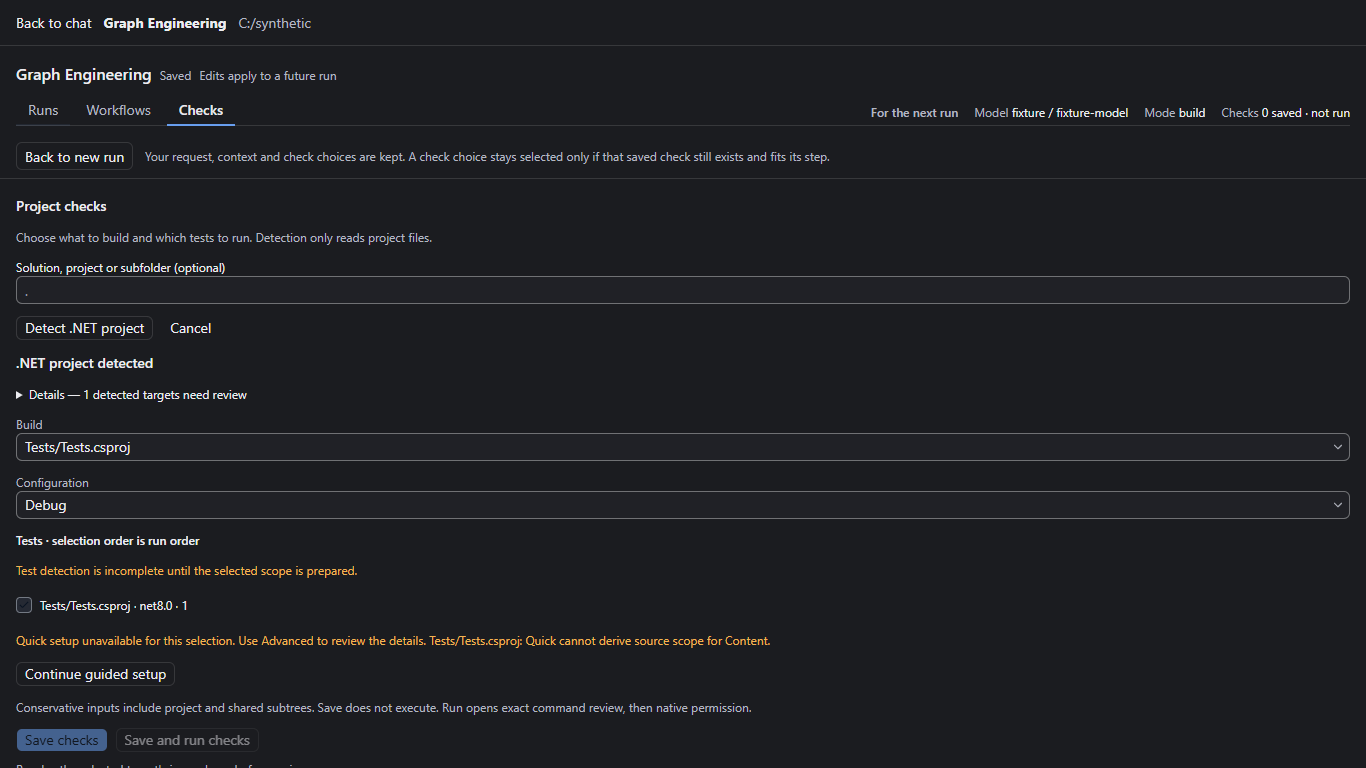
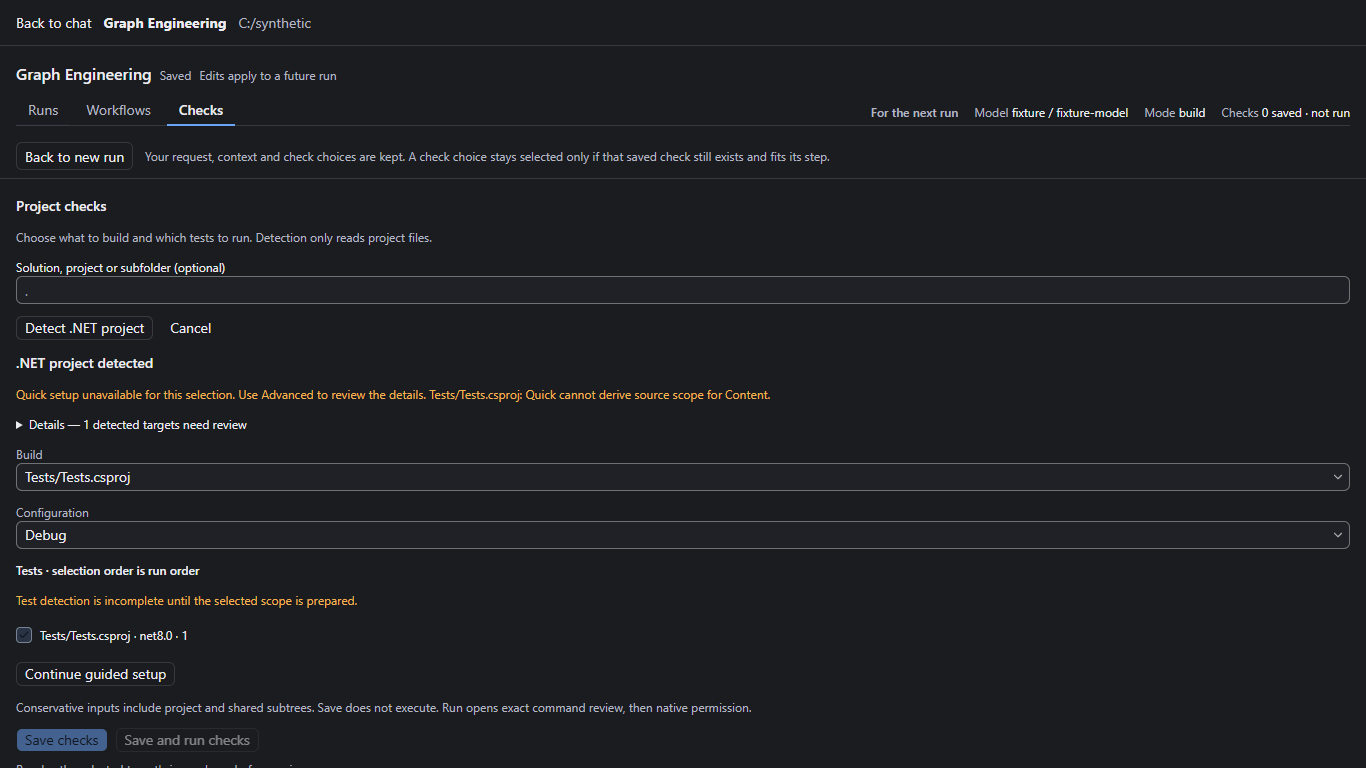
test(graph): record U4 native pass fail recovery and freshness

diff --git a/packages/services/src/graph-engineering/domain/project-items.ts b/packages/services/src/graph-engineering/domain/project-items.ts
@@ -1,7 +1,39 @@
 import { validateGraphRelativePath } from "./artifact-schemas.js";
-import type { ProjectXmlElement } from "./project-xml.js";
+import { parseProjectXml, type ProjectXmlElement } from "./project-xml.js";
 
 export const fileItemNames = new Set(["Compile", "Content", "None", "EmbeddedResource"]);
+/** 资源类型可隐藏文件读取；先解析实体，再只接受无类型的字符串资源。 */
+export function assertLiteralResource(text: string): void {
+  const root = parseProjectXml(new TextEncoder().encode(text));
+  if (root.name !== "root" || root.text.trim() || Object.keys(root.attributes).length)
+    throw Error("Only plain string resx resources are supported.");
+  for (const entry of root.children) {
+    if (
+      !["data", "resheader"].includes(entry.name) ||
+      entry.text.trim() ||
+      !entry.attributes.name ||
+      Object.keys(entry.attributes).some((key) => !["name", "xml:space"].includes(key)) ||
+      entry.children.some(
+        (child) =>
+          !["value", "comment"].includes(child.name) ||
+          child.children.length ||
+          Object.keys(child.attributes).length,
+      )
+    )
+      throw Error(
+        "Typed, indirect, serialized or schema-bearing resx resources require explicit review.",
+      );
+    if (entry.name === "resheader") {
+      const value = entry.children.find((child) => child.name === "value")?.text;
+      const allowed: Record<string, string> = {
+        resmimetype: "text/microsoft-resx",
+        version: "2.0",
+      };
+      if (value !== allowed[entry.attributes.name])
+        throw Error("Custom resx reader/writer metadata requires explicit review.");
+    }
+  }
+}
 const excluded = new Set(["bin", "obj", ".git", ".zcode"]);
 export interface ProjectFileOperation {
   kind: string;
@@ -49,6 +81,7 @@ export function projectPattern(pattern: string): RegExp {
 }
 export function projectPatternMayEnter(pattern: string, directory: string): boolean {
   const segments = pattern.split("/");
+  if (segments.at(-1) === "**" && projectPattern(pattern).test(directory)) return true;
   return segments.some(
     (_, index) =>
       index < segments.length - 1 &&

diff --git a/packages/ui/src/graph-engineering/GraphQuickDotnet.tsx b/packages/ui/src/graph-engineering/GraphQuickDotnet.tsx
@@ -291,6 +291,18 @@ export function GraphQuickDotnet({
                   {t("quickPrepared", { count: prepared.prepared.scope.sourceCount })}
                 </p>
               ) : null}
+              {issue ? (
+                <p role="status" className="text-ui-sm text-warning">
+                  {!build ||
+                  (!prepared?.issues.length && !scopes.length && choices.scopes.length) ? (
+                    t("quickChooseTargets")
+                  ) : (
+                    <>
+                      {t("quickUnavailable")} {issue.slice(0, 400)}
+                    </>
+                  )}
+                </p>
+              ) : null}
               <GraphQuickDiagnostics
                 diagnostics={diagnostics}
                 affected={
@@ -343,18 +355,6 @@ export function GraphQuickDotnet({
                 disabled={disabled}
                 busy={busy}
               />
-              {issue ? (
-                <p role="status" className="text-ui-sm text-warning">
-                  {!build ||
-                  (!prepared?.issues.length && !scopes.length && choices.scopes.length) ? (
-                    t("quickChooseTargets")
-                  ) : (
-                    <>
-                      {t("quickUnavailable")} {issue}
-                    </>
-                  )}
-                </p>
-              ) : null}
               {issue && build && !busy ? (
                 <GraphQuickContinuation
                   workspaceKey={workspaceKey}

diff --git a/packages/services/src/graph-engineering/adapters/project-scope.ts b/packages/services/src/graph-engineering/adapters/project-scope.ts
@@ -6,7 +6,7 @@ import { PROJECT_SCOPE_BUDGET } from "../domain/project-budgets.js";
 import { validateGraphRelativePath } from "../domain/artifact-schemas.js";
 import { assertWorkspaceFilePath, readDeclaredFile } from "./artifact-files.js";
 import { ProjectScanJob, pathKey, projectDigest } from "./project-scan-job.js";
-import { evaluateFileItems } from "../domain/project-items.js";
+import { evaluateFileItems, assertLiteralResource } from "../domain/project-items.js";
 
 const ancestorNames = [
   "Directory.Build.props",
@@ -214,12 +214,13 @@ export async function prepareProjectScope(job: ProjectScanJob, project: string) 
       )) {
         if (item.kind === "EmbeddedResource" && /\.resx$/i.test(item.path)) {
           await job.metadata(item.path);
-          if (
-            /ResXFileRef|BinaryFormatter|SoapFormatter/i.test(job.contents.get(pathKey(item.path))!)
-          )
+          try {
+            assertLiteralResource(job.contents.get(pathKey(item.path))!);
+          } catch (error) {
             throw Error(
-              `${item.path}: indirect or serialized resource inputs require explicit review.`,
+              `${item.path}: ${error instanceof Error ? error.message : "Unsupported resource"}`,
             );
+          }
         }
       }
   // 元数据读取与源枚举间发生变化时拒绝发布，不把不同时刻的闭包拼成授权。

diff --git a/packages/services/src/graph-engineering/adapters/project-declarative.test.ts b/packages/services/src/graph-engineering/adapters/project-declarative.test.ts
@@ -144,6 +144,7 @@ test("duplicate lists, excluded glob intersections, resource indirection and exp
   for (const declaration of [
     '<Content Include="data/value.txt;data/value.txt"/>',
     '<Content Include="dat*/**/*.txt"/>',
+    '<Content Include="data/**"/>',
     '<Content Include="data/**/*.txt" Exclude="data/obj/input.txt;data/obj/nested/input.cs"/>',
     '<Content Include="data/value.txt" UnknownMetadata="value"/>',
   ]) {
@@ -160,6 +161,16 @@ test("duplicate lists, excluded glob intersections, resource indirection and exp
     '<root><data type="System.Resources.ResXFileRef"><value>../../outside.txt</value></data></root>',
   );
   assert.match((await prepare()).issues.join(" "), /resource|ResX/i);
+  await write(
+    "Tests/resource.resx",
+    '<root><data name="outside" type="System.Resources.ResXFile&#82;ef"><value>../../outside.txt</value></data></root>',
+  );
+  assert.equal((await prepare()).prepared, undefined);
+  await write(
+    "Tests/resource.resx",
+    '<root><data name="literal"><value>safe string</value></data></root>',
+  );
+  assert.equal((await prepare()).status, "complete");
   const d = declarativeProject(
     "Tests/Tests.csproj",
     new Map([

diff --git a/docs/graph-engineering/z8/Z8_5_U4_REPORT.md b/docs/graph-engineering/z8/Z8_5_U4_REPORT.md
@@ -29,7 +29,8 @@ are bounded to 64 documents / depth 16.
 Unsupported shapes remain actionable, non-runnable drafts: conditional imports;
 arbitrary conditions/property functions/unknown properties; custom SDKs, targets,
 tasks, output paths and generators; escaped item syntax and transforms; external
-paths/reparse aliases; indirect or serialized resx inputs; repeated/cyclic imports;
+paths/reparse aliases; typed, indirect, serialized, schema-bearing or custom-reader
+resx inputs (only plain string resx is accepted); repeated/cyclic imports;
 unknown metadata; file items before SDK defaults; unresolved multi-framework
 conditions. Explicit declarations intersecting excluded state/output trees require
 a provable subtree Exclude or a narrower pattern. This is not universal MSBuild
@@ -72,6 +73,8 @@ MSBuild calls in the oracle are explicit synthetic test actions only.
   closure behavior. No limits or exclusions were weakened.
 - Unchanged F2 RunInfo evidence regressions: 2 passed. The portable genuine-fixture
   tests requiring a separate owned receipt retain their two normal skips.
+- Additional v2/manual-form round-trip tests: 8 passed; content/shared/import
+  freshness checks passed after the final test additions.
 - Full portable selector on Windows: 993 tests, 989 passed, 2 failed, 2 skipped.
   Failures are the unchanged Windows ASAR-header hash assertion and absolute-path
   ESM config import. The Linux suite also expects four skips, while Windows runs
@@ -88,7 +91,9 @@ MSBuild calls in the oracle are explicit synthetic test actions only.
   failure, retained guided notes after cancellation and a Chinese view.
 - Installed oracle: .NET SDK 8.0.425, MSBuild 17.11.48.46605. Debug/Release output
   identity, copied Content/None and embedded-resource metadata agree with the
-  installed engine. See [oracle receipt](evidence/u4/oracle.json).
+  installed engine. Only net8.0 has native Build/Test proof; parsing other literal
+  framework names does not establish local toolchain/adapter readiness. Ordered lists, question wildcards, local Exclude, existing-only
+  Update, Remove and empty matches also agree. See [oracle receipt](evidence/u4/oracle.json).
 
 Local Node was 24.11.1 rather than the repository's 24.14.0 pin; pnpm was the
 locked 10.33.2. No dependency/SDK upgrade or retargeting was performed.
@@ -107,8 +112,41 @@ rebases already-restored artifacts onto complete copies of existing cached publi
 packages; no restore/feed request is performed. The next run's approved Build
 passed (4,358 ms native command), and Build acceptance was true, but the Test
 successor did not reach its permission boundary before the existing harness
-deadline. That attempt does not establish Test success. A separate retry is being
-recorded; final native outcome and review identity are supplied in the PR handoff.
+deadline. That attempt does not establish Test success.
+
+The separate retry **passed the complete 5,013-input sequence** through the real
+UI/native permission owners:
+
+| Case              | Native result and evidence                                                                                                                                |
+| ----------------- | --------------------------------------------------------------------------------------------------------------------------------------------------------- |
+| Pass              | Build exit 0, Test exit 0; 3/3 real tests passed; accepted original-byte TRX and operation-bound normalization receipt                                    |
+| Assertion failure | Same configuration, changed assertion, fresh Build exit 0 and Test exit 1; 2 passed / 1 failed; valid FAIL observation, not parser/infrastructure failure |
+| Recovery          | Restore assertion; fresh approved Build/Test exit 0; 3/3 passing evidence accepted                                                                        |
+| Stale Content     | Modify copied content after review; confirmation rejected, zero new runs/models                                                                           |
+
+The tests consume copied literal Content, copied None Update, an embedded resource
+and a linked shared source. No F2 parser, normalization, permission, admission or
+evidence-acceptance rule changed. See the sanitized [native receipt](evidence/u4/native.json).
+
+Native command durations were Build 4,408 / 5,100 / 5,652 ms and Test 1,665 / 1,446 /
+1,193 ms. End-to-end overhead is still substantial: admission-to-Build-start was
+65,029–73,226 ms, and Build-exit-to-Test-start was 117,280–141,190 ms. These intervals
+include repeated required source verification, harness UI work and native permission
+interaction, not just command execution. No product deadline was increased and no
+freshness boundary was skipped. Independent native reviews then passed all four
+stale-input rejection probes: Content bytes, shared source bytes, imported metadata
+bytes and a new file matching SDK default-item membership. Each rejected confirmation
+created zero new runs/models at 5,013 inputs. See the [freshness receipt](evidence/u4/freshness.json).
+An initial helper attempt stopped after the content case because two Close buttons
+matched its selector; the corrected helper passed all four cases.
+
+## Review delivery
+
+One [draft PR #22](https://github.com/dumpfordummy/ZCode/pull/22) targets integration;
+auto-merge is off. The initial head passed Linux typecheck and graph-tests; static
+checks correctly rejected formatting in the spec-first commit. The spec is formatted
+and the final-head check state and full head/base/tested-merge SHAs are recorded in
+the PR description and final handoff. Earlier green jobs do not certify a later head.
 
 ## Small rendered gallery
 

diff --git a/docs/graph-engineering/z8/Z8_5_U4_SPEC.md b/docs/graph-engineering/z8/Z8_5_U4_SPEC.md
@@ -11,16 +11,16 @@ Detection, preparation, Save, tab changes and fingerprinting never run MSBuild,
 restore, a shell, a model or a provider. A configuration is a proposal, not test
 evidence. Existing native review, permission, admission and TRX owners remain intact.
 
-| Construct | Intended passive policy |
-| --- | --- |
-| SDK | Literal Microsoft.NET.Sdk; established default output layout |
-| File items | Compile, Content, None, EmbeddedResource; ordered Include/Exclude, Update, Remove; finite lists and bounded `*`, `?`, `**` |
-| Metadata | Literal CopyToOutputDirectory/CopyToPublishDirectory (Never, Always, PreserveNewest, IfDifferent), safe Link/TargetPath, LogicalName and DependentUpon; no transforms/generators |
-| Paths | Project-relative, including imported item declarations; shared inputs may leave the project directory but must remain inside the workspace |
-| Properties/conditions | Explicitly supported literal properties; Configuration/TargetFramework/Platform equality or inequality; no property functions, item expressions or unknown environment properties |
-| Imports | Bounded literal contained imports and nearest applicable Directory.Build.props/targets and Directory.Packages.props, interpreted in evaluation order; cycles and unknown execution rejected |
-| Execution | Explicit selected configuration agrees with commands, output identity, closure and saved scope; default platform AnyCPU only until other platforms have modeled command identity |
-| Unsupported | Custom SDK/output paths, generated inputs, tasks/targets, external imports, arbitrary conditions/properties/metadata, escaping whose semantics are not established |
+| Construct             | Intended passive policy                                                                                                                                                                     |
+| --------------------- | ------------------------------------------------------------------------------------------------------------------------------------------------------------------------------------------- |
+| SDK                   | Literal Microsoft.NET.Sdk; established default output layout                                                                                                                                |
+| File items            | Compile, Content, None, EmbeddedResource; ordered Include/Exclude, Update, Remove; finite lists and bounded `*`, `?`, `**`                                                                  |
+| Metadata              | Literal CopyToOutputDirectory/CopyToPublishDirectory (Never, Always, PreserveNewest, IfDifferent), safe Link/TargetPath, LogicalName and DependentUpon; no transforms/generators            |
+| Paths                 | Project-relative, including imported item declarations; shared inputs may leave the project directory but must remain inside the workspace                                                  |
+| Properties/conditions | Explicitly supported literal properties; Configuration/TargetFramework/Platform equality or inequality; no property functions, item expressions or unknown environment properties           |
+| Imports               | Bounded literal contained imports and nearest applicable Directory.Build.props/targets and Directory.Packages.props, interpreted in evaluation order; cycles and unknown execution rejected |
+| Execution             | Explicit selected configuration agrees with commands, output identity, closure and saved scope; default platform AnyCPU only until other platforms have modeled command identity            |
+| Unsupported           | Custom SDK/output paths, generated inputs, tasks/targets, external imports, arbitrary conditions/properties/metadata, escaping whose semantics are not established                          |
 
 Conservative source coverage includes all regular files in the selected project
 subtrees and required shared input roots, even files removed from an item list.
